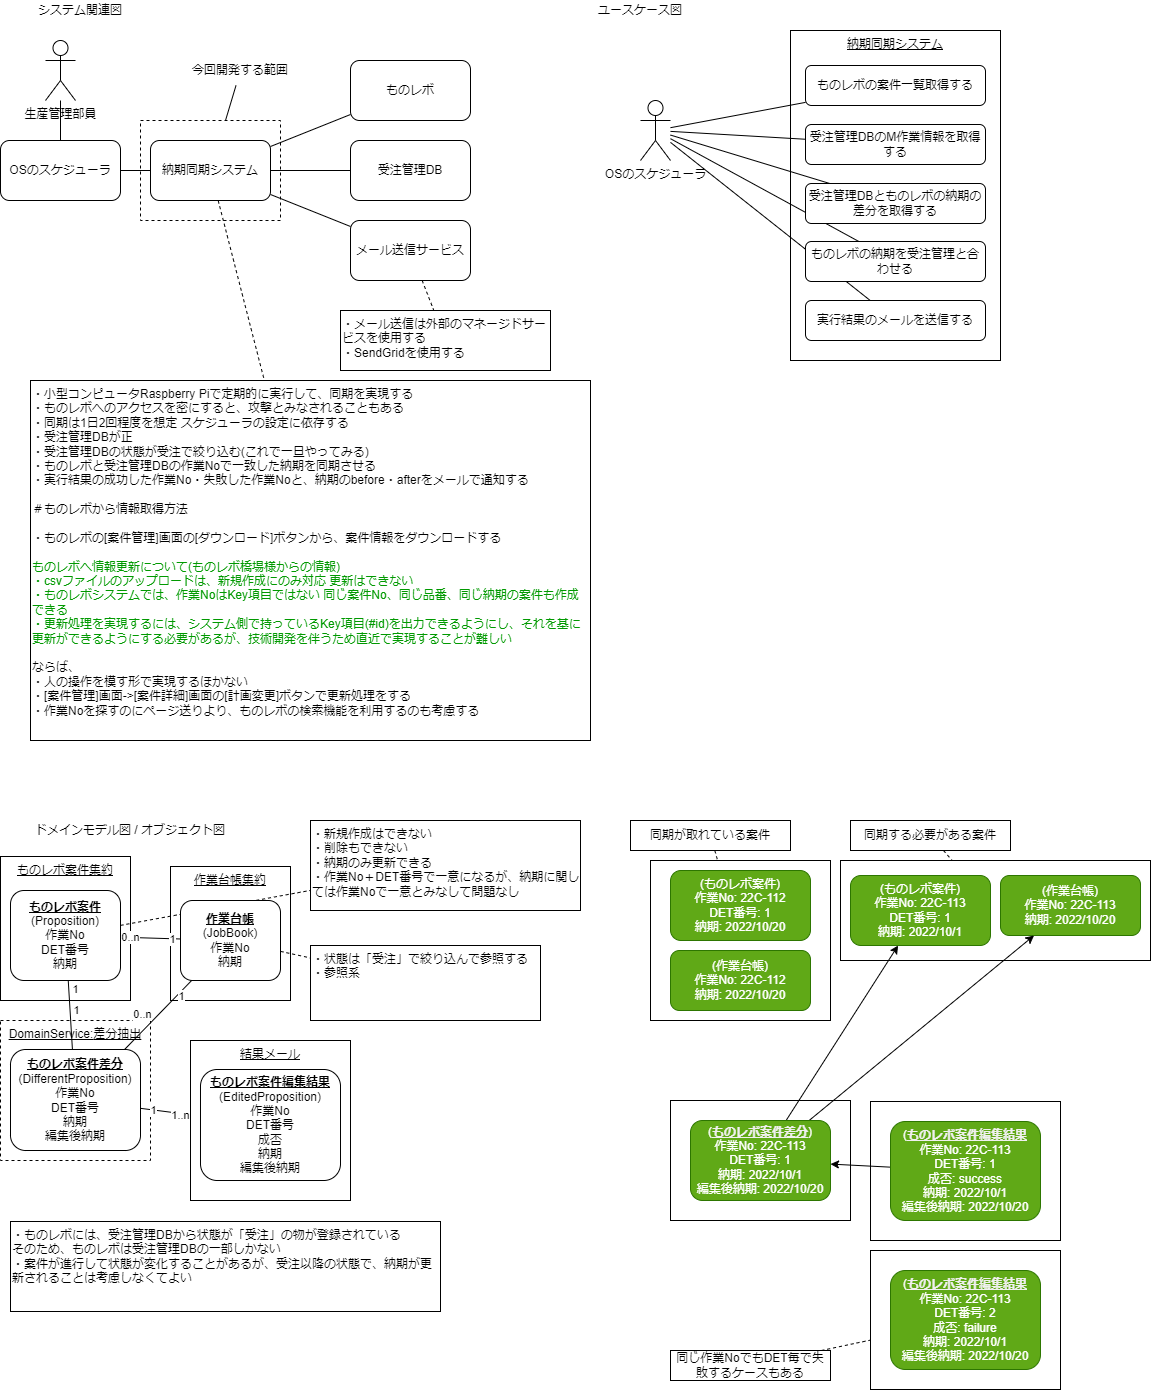
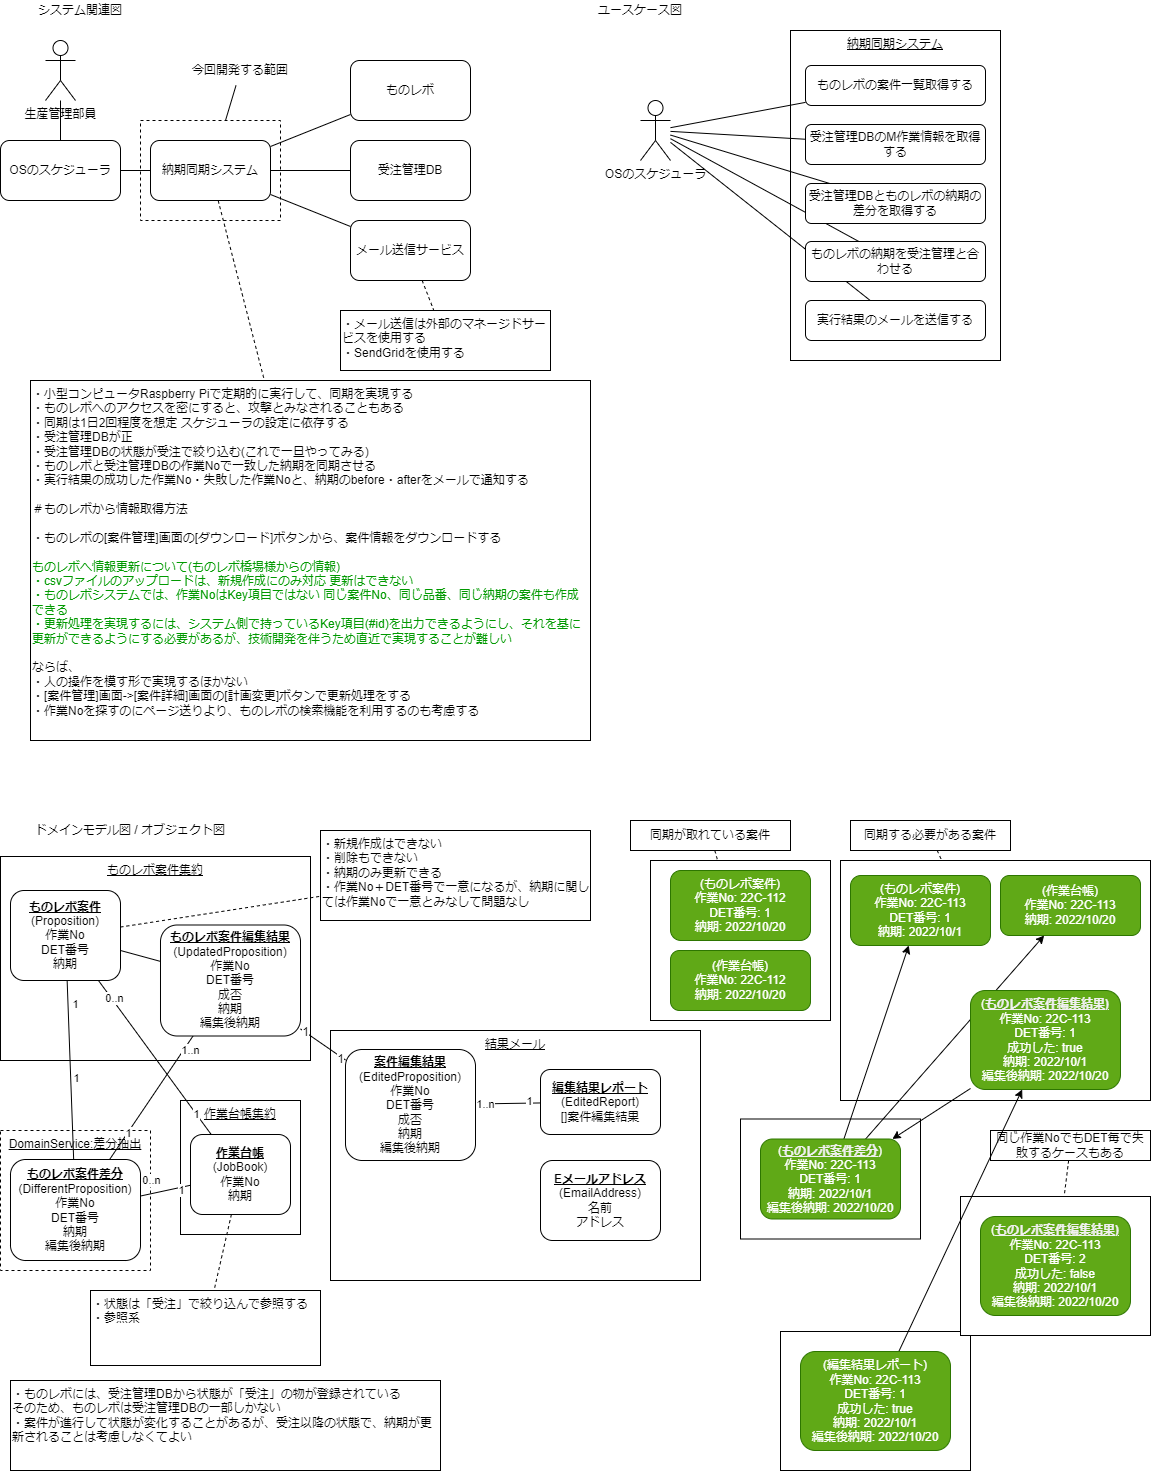
ドメインモデル図更新 モデルも併せて修正

diff --git a/infrastructure/twiliosendmail/gridEMailWrap.go b/infrastructure/twiliosendmail/gridEMailWrap.go
@@ -1,7 +1,7 @@
 package twiliosendmail
 
 import (
-	"SynchronizeMonorevoDeliveryDates/domain/sentmail"
+	"SynchronizeMonorevoDeliveryDates/domain/report"
 	"fmt"
 	"os"
 	"path/filepath"
@@ -32,7 +32,7 @@ type SendGridMail struct {
 	apiKey string
 }
 
-func NewSendGridMail(sugar *zap.SugaredLogger, cnf *SendGridConfig) sentmail.EMailer {
+func NewSendGridMail(sugar *zap.SugaredLogger, cnf *SendGridConfig) report.EMailer {
 	return &SendGridMail{
 		sugar:  sugar,
 		apiKey: cnf.apiKey,
@@ -40,10 +40,10 @@ func NewSendGridMail(sugar *zap.SugaredLogger, cnf *SendGridConfig) sentmail.EMa
 }
 
 func (m *SendGridMail) Send(
-	tos []sentmail.EmailAddress,
-	ccs []sentmail.EmailAddress,
-	bccs []sentmail.EmailAddress,
-	from sentmail.EmailAddress,
+	tos []report.EmailAddress,
+	ccs []report.EmailAddress,
+	bccs []report.EmailAddress,
+	from report.EmailAddress,
 	subject string,
 	body string,
 	replacements map[string]string,

diff --git a/domain/report/emailer.go b/domain/report/emailer.go
@@ -1,0 +1,35 @@
+package report
+
+import "time"
+
+type EMailer interface {
+	Send(
+		tos []EmailAddress,
+		ccs []EmailAddress,
+		bccs []EmailAddress,
+		from EmailAddress,
+		subject string,
+		body string,
+		replacements map[string]string,
+	) (string, error)
+}
+
+// 編集結果
+type EditedProposition struct {
+	WorkedNumber        string
+	Det                 string
+	Successful          bool
+	DeliveryDate        time.Time
+	UpdatedDeliveryDate time.Time
+}
+
+// 編集結果レポート
+type EditedReport struct {
+	EditedPropositions []EditedProposition
+}
+
+// 電子メールの名前とアドレス情報
+type EmailAddress struct {
+	Name    string
+	Address string
+}
